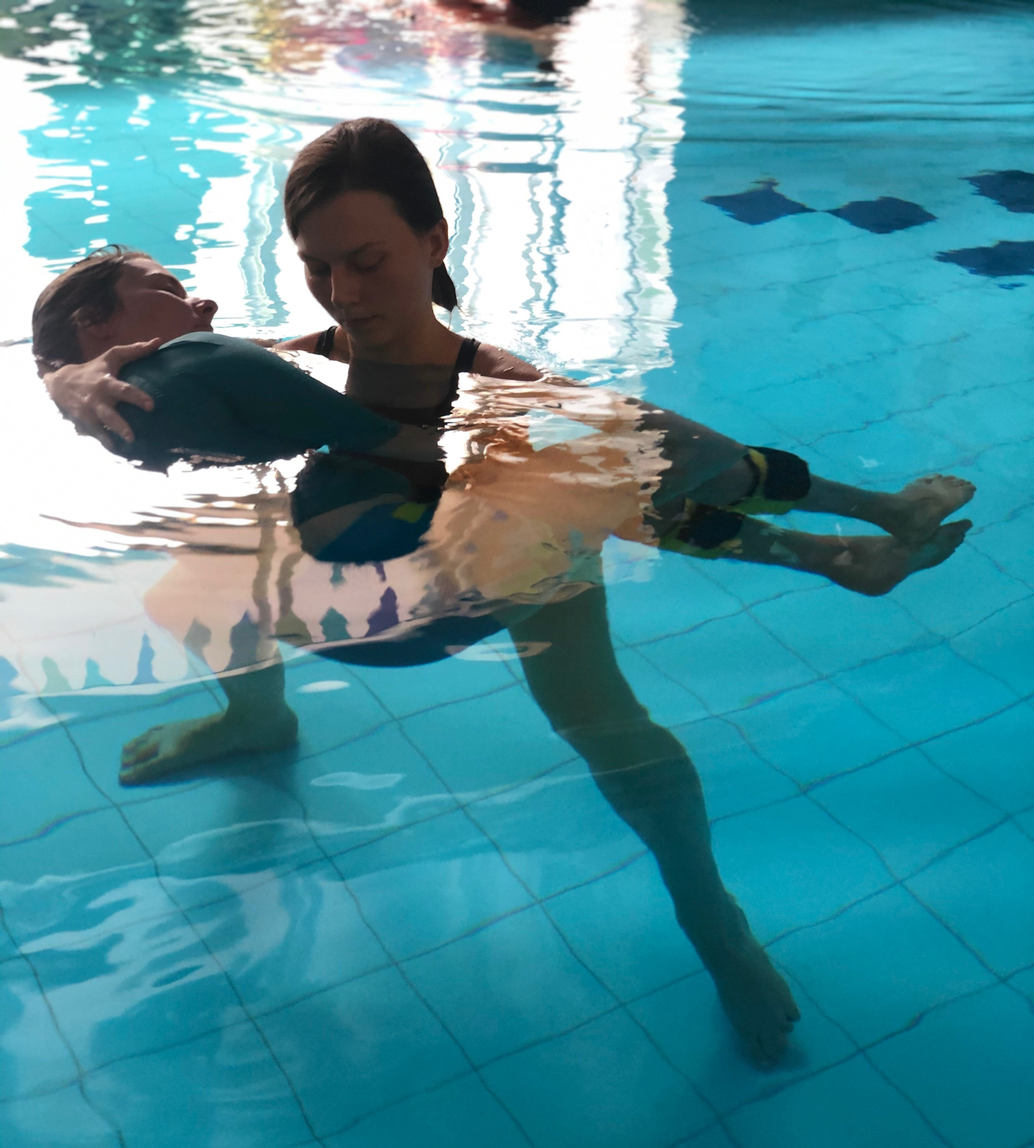
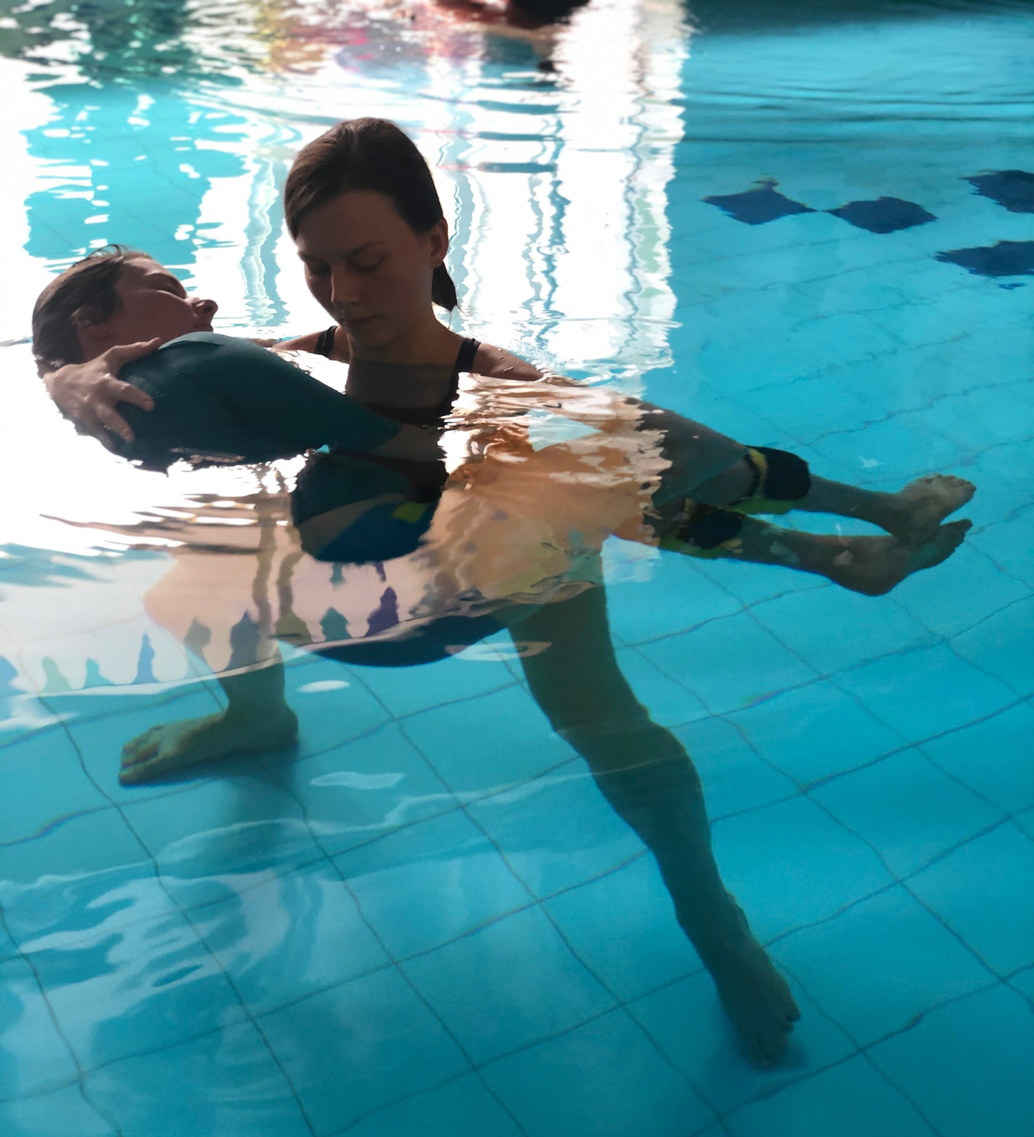
Úprava menu

diff --git a/lenka.html b/lenka.html
@@ -34,8 +34,8 @@
       <section class="o-mne__zajimavosti">
         <h3 class="o-mne__zajimavosti-nadpis">Něco zajímavého</h3>
         <section class="watsu">
-          <img class="watsu__foto" src="img/watsu.jpg" alt="watsu" />
           <img class="watsu__foto" src="img/watsu2.jpg" alt="watsu2" />
+          <img class="watsu__foto" src="img/watsu.jpg" alt="watsu" />
         </section>
         <p>
           Mám ráda anime (u mého nejoblíbenějšího jsem si přečetla i mangu),

diff --git a/style.css b/style.css
@@ -31,7 +31,7 @@ main {
   justify-content: center;
 }
 .menu a {
-  flex: 0 1 30%;
+  flex: 1 1 30%;
   text-decoration: none;
   border-radius: 5px;
   font-size: 1.5rem;
